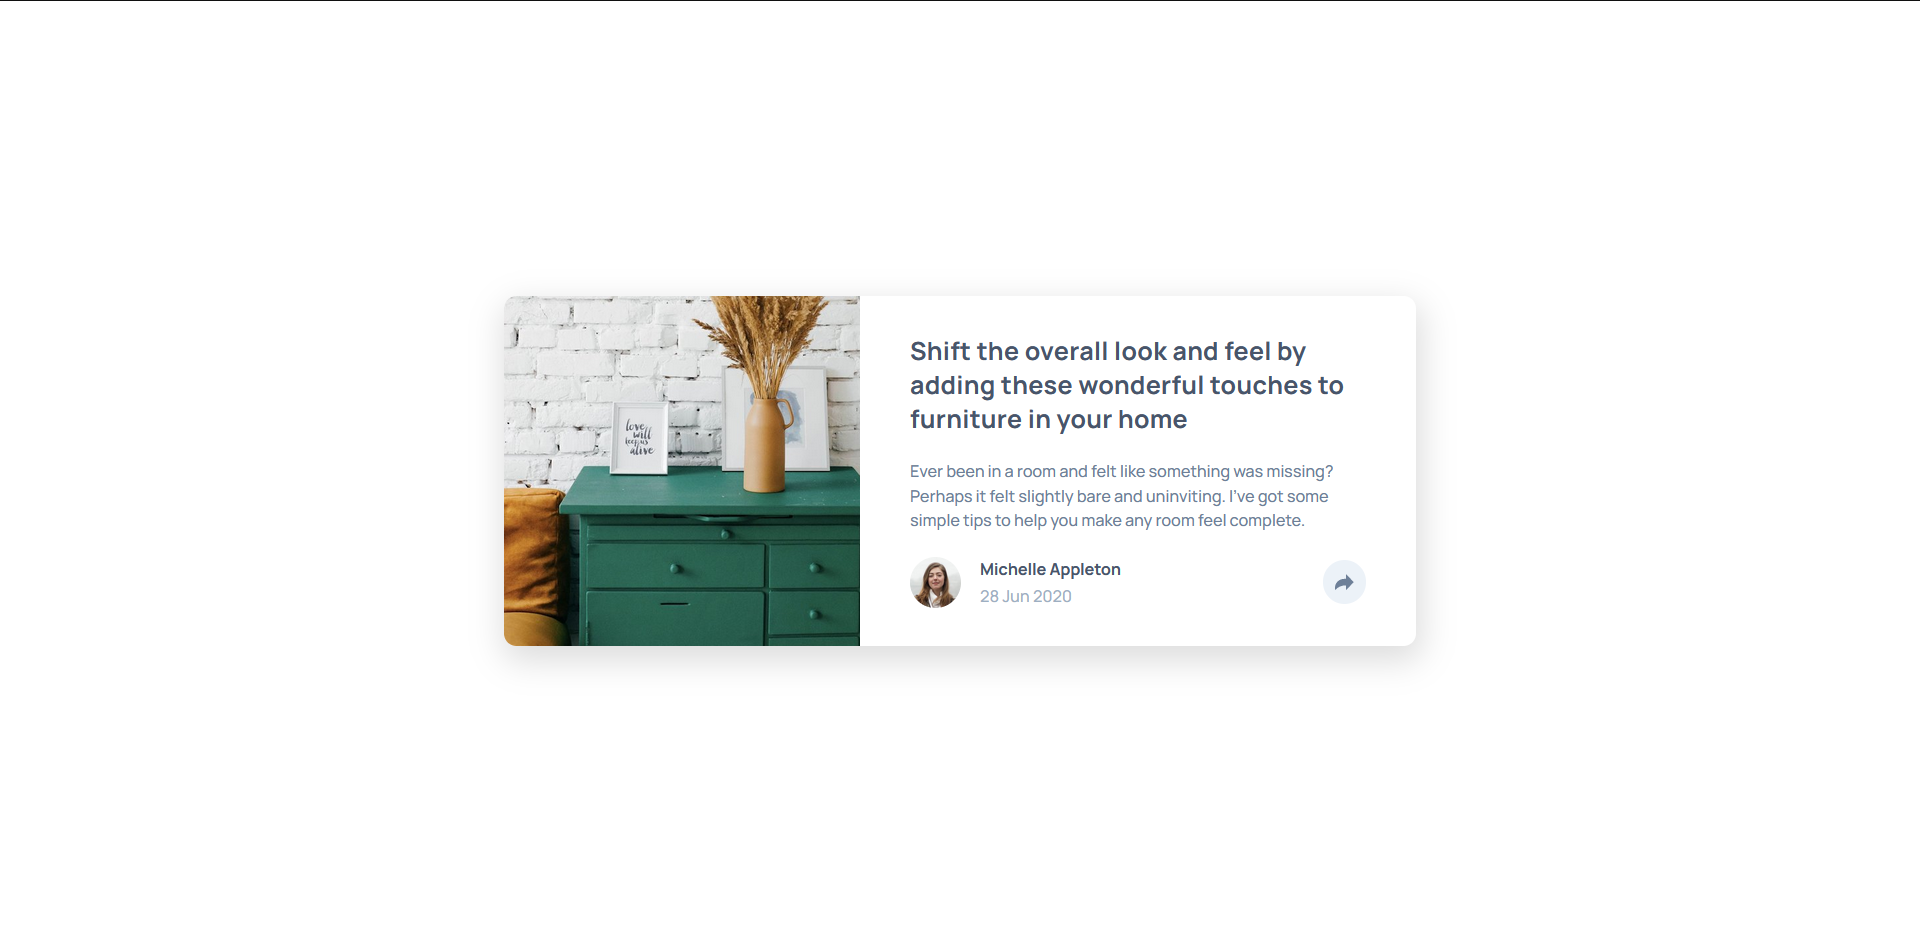
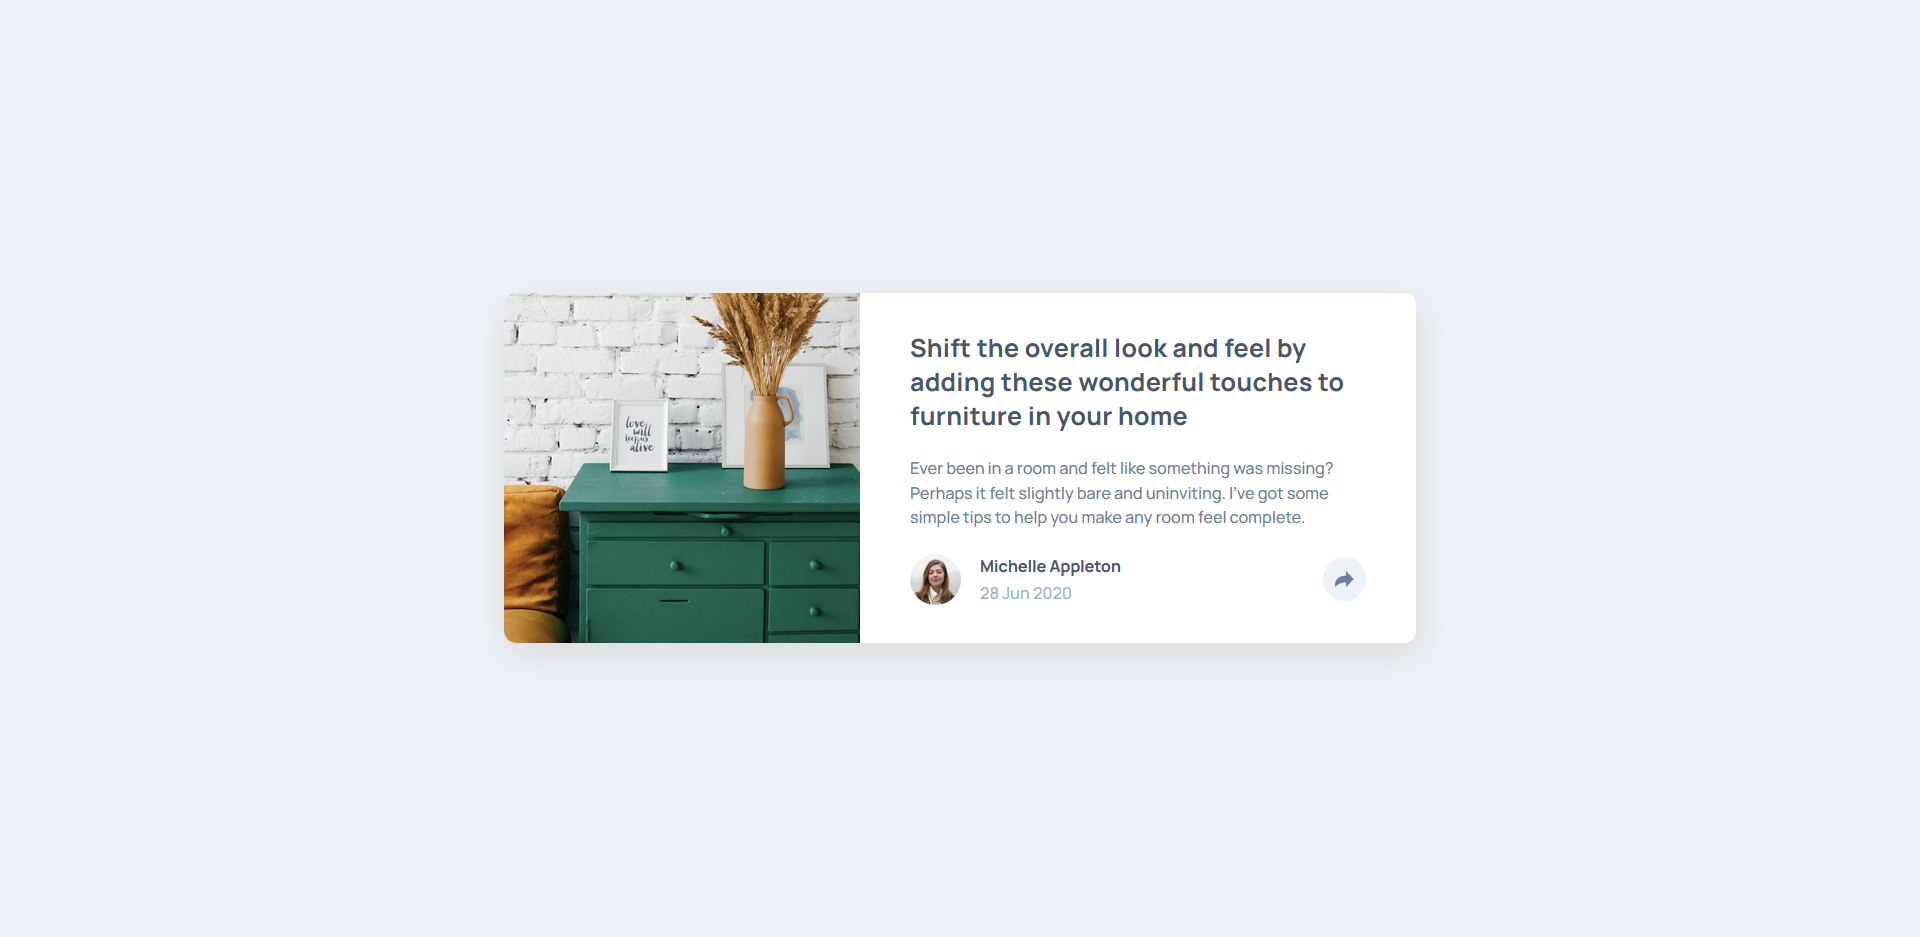
fix background

diff --git a/Article-preview-component/index.html b/Article-preview-component/index.html
@@ -45,7 +45,7 @@
                 />
               </svg>
             </div>
-            <div id="myModal" class="modal" role="button">
+            <div id="myModal" class="modal">
               <span>Share</span>
               <a href="#" role="button"
                 ><img src="./images/icon-facebook.svg" alt="Facebook"

diff --git a/Article-preview-component/assets/scss/style.scss b/Article-preview-component/assets/scss/style.scss
@@ -37,12 +37,14 @@ body {
   display: flex;
   justify-content: center;
   align-items: center;
+  background-color: $light-grayish-blue;
 }
 
 .card {
   max-width: 730px;
   width: 100%;
   height: 280px;
+  background-color: white;
   border-radius: 10px;
   display: flex;
   -webkit-box-shadow: 2px 9px 25px 3px #dddddd;

diff --git a/Article-preview-component/css/style.css b/Article-preview-component/css/style.css
@@ -14,12 +14,14 @@ body {
   display: flex;
   justify-content: center;
   align-items: center;
+  background-color: hsl(210, 46%, 95%);
 }
 
 .card {
   max-width: 730px;
   width: 100%;
   height: 280px;
+  background-color: white;
   border-radius: 10px;
   display: flex;
   -webkit-box-shadow: 2px 9px 25px 3px #dddddd;
